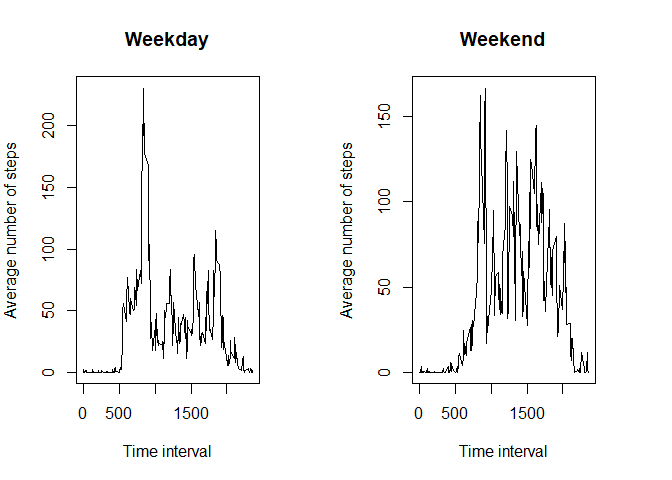
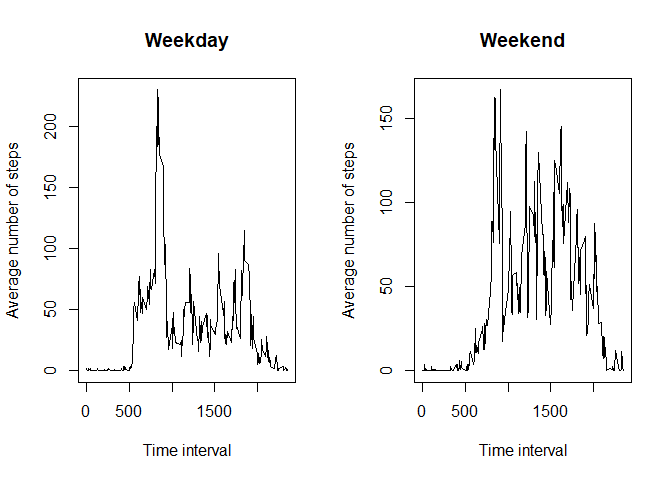
Finished

diff --git a/PA1_template.html b/PA1_template.html
@@ -446,9 +446,9 @@ hist(steps_per_day_imp,
 </div>
 <div id="are-there-differences-in-activity-patterns-between-weekdays-and-weekends" class="section level2">
 <h2>Are there differences in activity patterns between weekdays and weekends?</h2>
-<p>Here we’re creating the variable called “day” in which we define if this day is a weekday or a weekend and then we are plotting a plot graph that corresponds to weekdays and weekends.</p>
+<p>Here we’re creating the variable called “day” in which we define if this day is a weekday or a weekend and then we are plotting a graph that corresponds to weekdays and weekends.</p>
 <pre class="r"><code>imp_data$day &lt;- wday(imp_data$date)
-par(mfrow = c(1,2), mar = c(5,4,4,4))
+par(mfrow = c(1,2))
 average_steps_weekday &lt;- tapply(imp_data$steps[which(imp_data$day %in% c(2,3,4,5,6))],
                                 imp_data$interval[which(imp_data$day %in% c(2,3,4,5,6))],
                                 mean,
@@ -470,7 +470,7 @@ plot(names(average_steps_weekend),
      xlab = &quot;Time interval&quot;,
      ylab = &quot;Average number of steps&quot;,
      main = &quot;Weekend&quot;)</code></pre>
[2 lines of base64/hex data omitted]
 </div>
 
 

diff --git a/PA1_template.md b/PA1_template.md
@@ -164,11 +164,11 @@ So, as we can see, imputing slightly changed the mean and median values and the 
 
 ## Are there differences in activity patterns between weekdays and weekends?
 
-Here we're creating the variable called "day" in which we define if this day is a weekday or a weekend and then we are plotting a plot graph that corresponds to weekdays and weekends.
+Here we're creating the variable called "day" in which we define if this day is a weekday or a weekend and then we are plotting a graph that corresponds to weekdays and weekends.
 
 ```r
 imp_data$day <- wday(imp_data$date)
-par(mfrow = c(1,2), mar = c(5,4,4,4))
+par(mfrow = c(1,2))
 average_steps_weekday <- tapply(imp_data$steps[which(imp_data$day %in% c(2,3,4,5,6))],
                                 imp_data$interval[which(imp_data$day %in% c(2,3,4,5,6))],
                                 mean,
